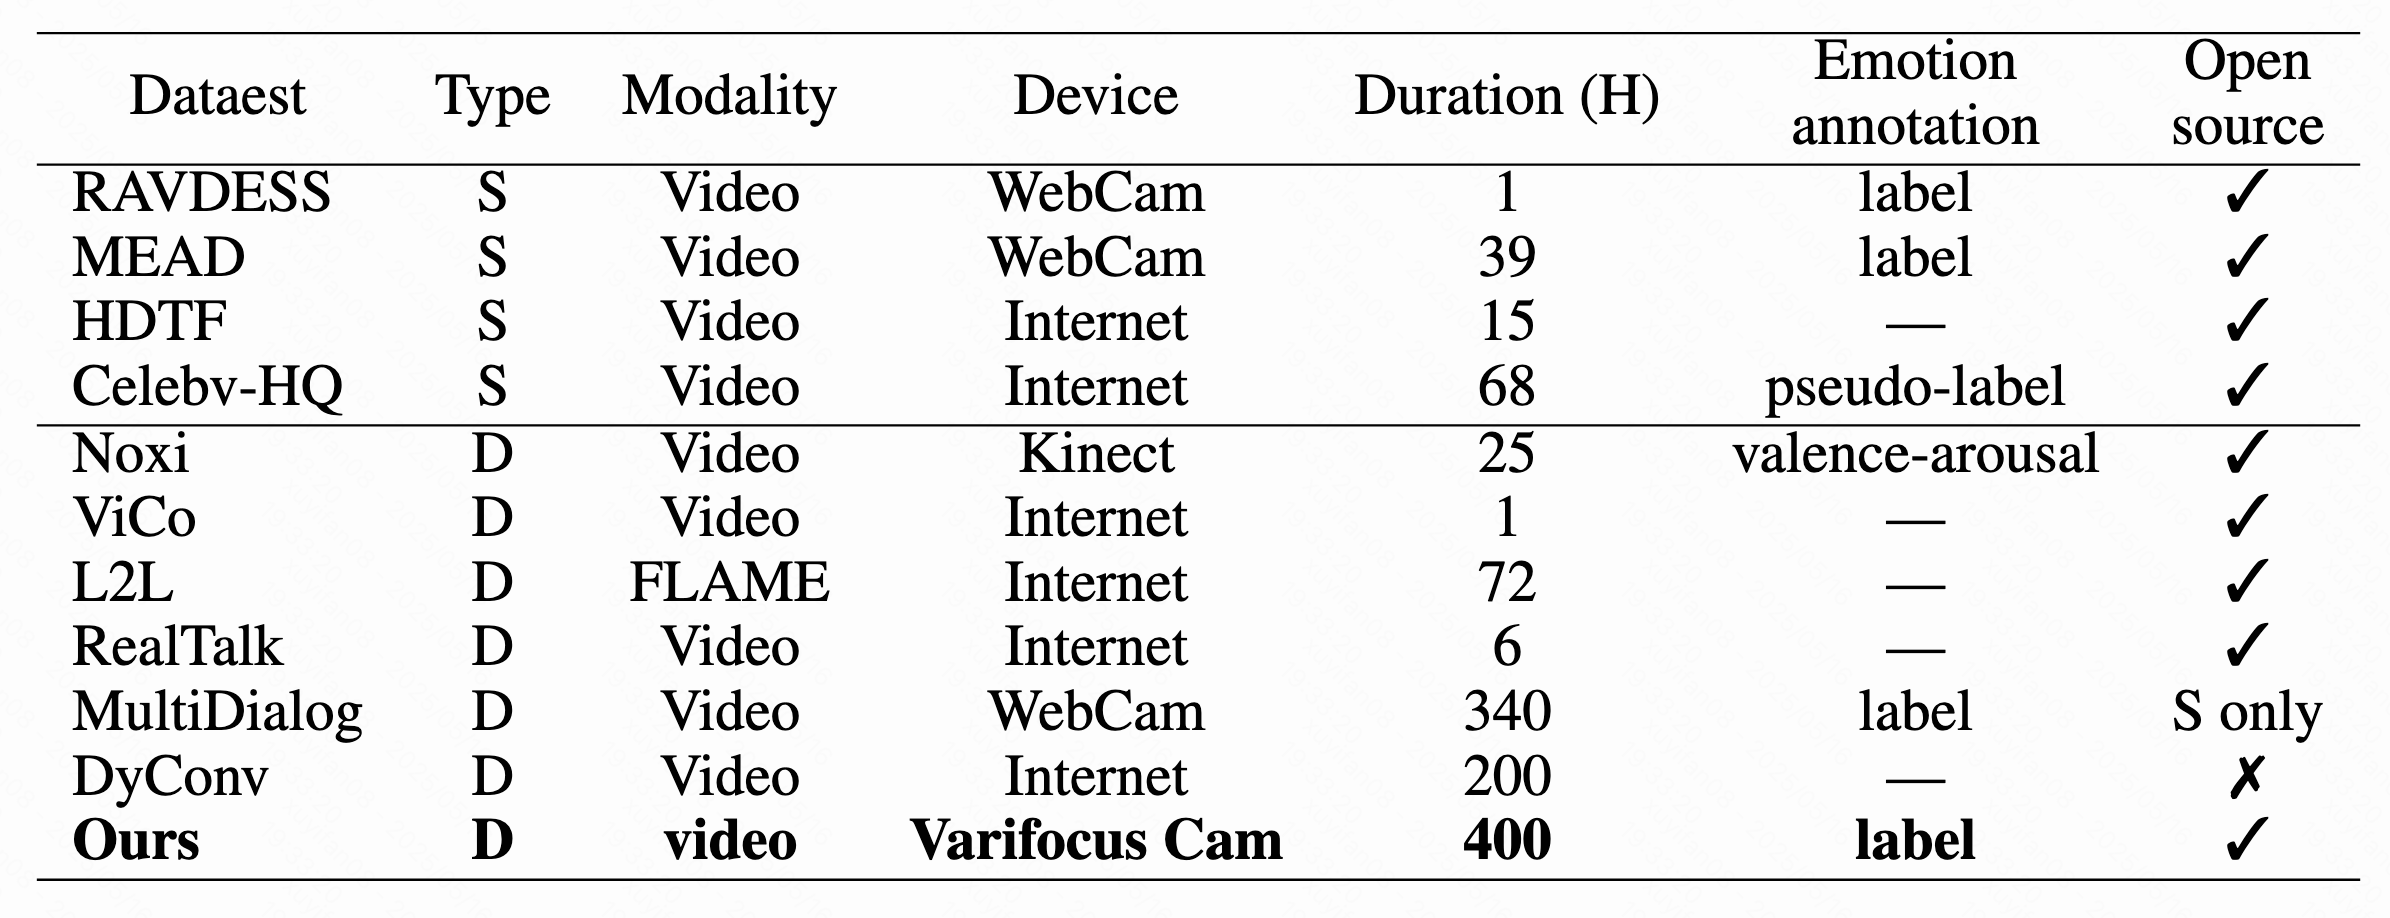
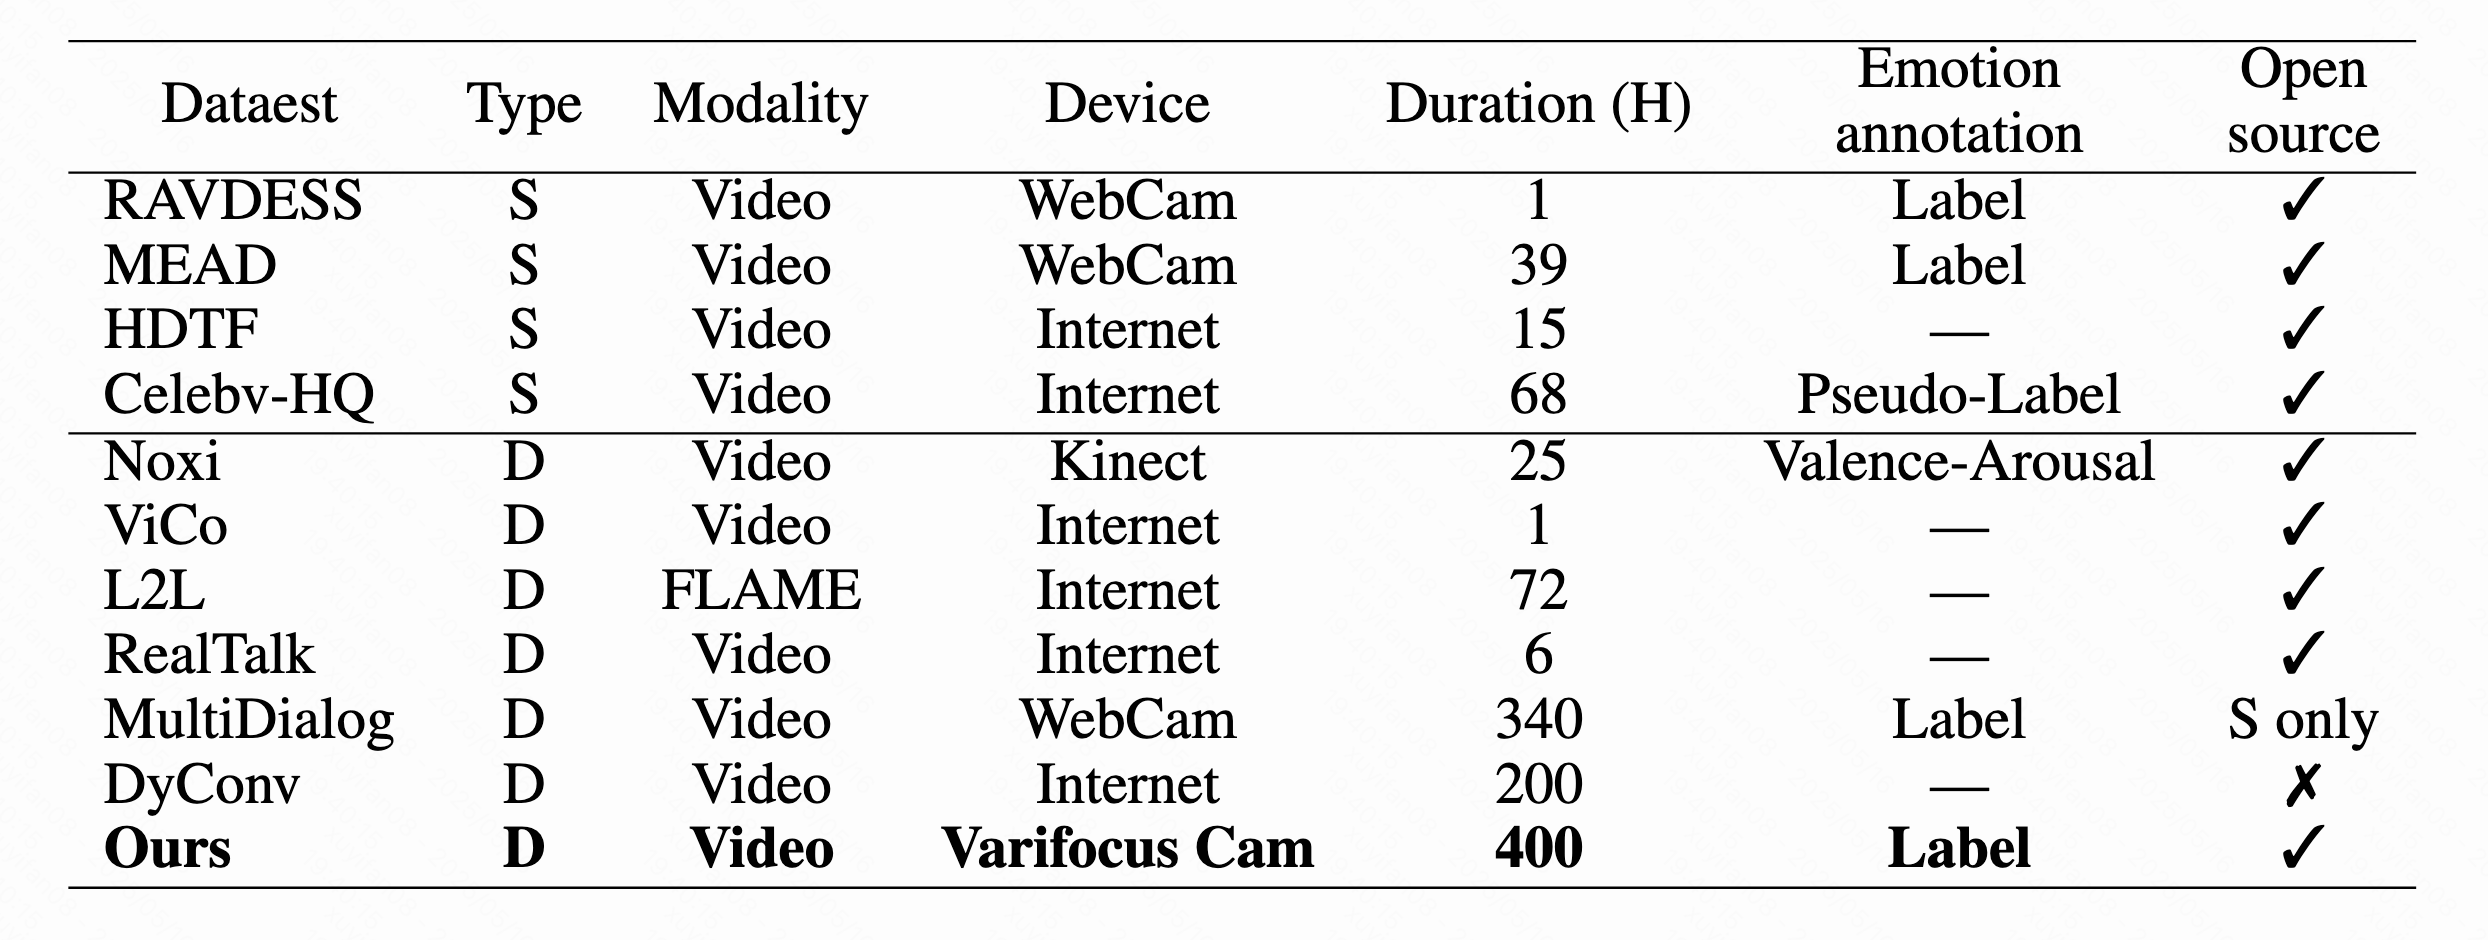
update

diff --git a/README.md b/README.md
@@ -30,7 +30,7 @@ We propose the first high-quality multimodal dialogue dataset aligned with socio
 |total length (hr) | Over 400|
 
 ### 2. Comparison of SocioEmoDialog and pervious datasets
-Comparison of different datasets. SocioEmoDialog excels in expression diversity, actor scale, data scale, and recording quality. T and D denote for *talking* and *dyadic*, respectively.
+Comparison of different datasets. SocioEmoDialog excels in expression diversity, actor scale, data scale, and recording quality. S and D denote for *single* and *dyadic*, respectively.
 <p align="center">
      <img src="imgs/Comparison.png" alt="Image 1" width="1000">
 </p>
